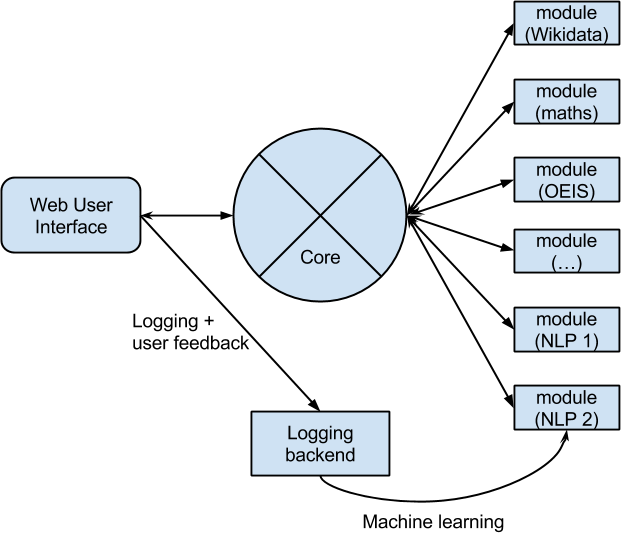
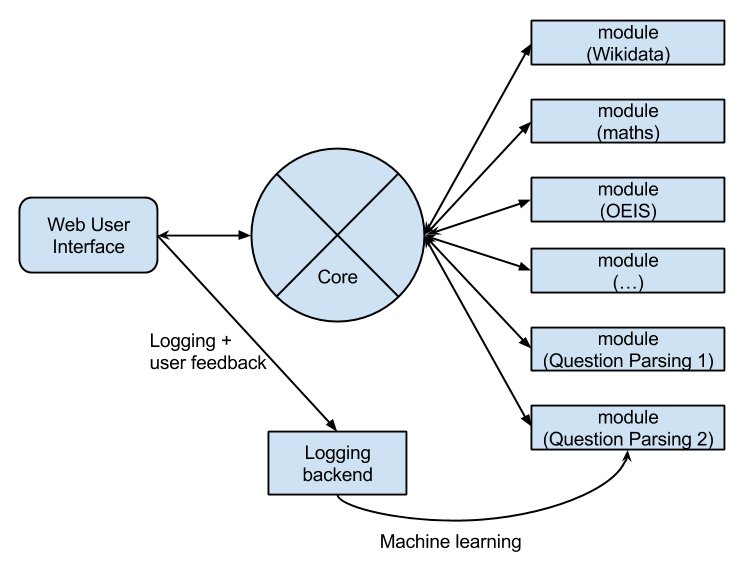
Update PPP structure.

diff --git a/MidtermReport/datamodel.tex b/MidtermReport/datamodel.tex
@@ -110,5 +110,5 @@ We could define a linear representation for the trace, using the representation 
   \centering
     \label{struct}
     \caption{Architecture of the PPP}
-    \includegraphics[width=0.5\textwidth]{../ppp_structure.png}
+    \includegraphics[width=0.8\textwidth]{../ppp_structure.png}
 \end{figure}
